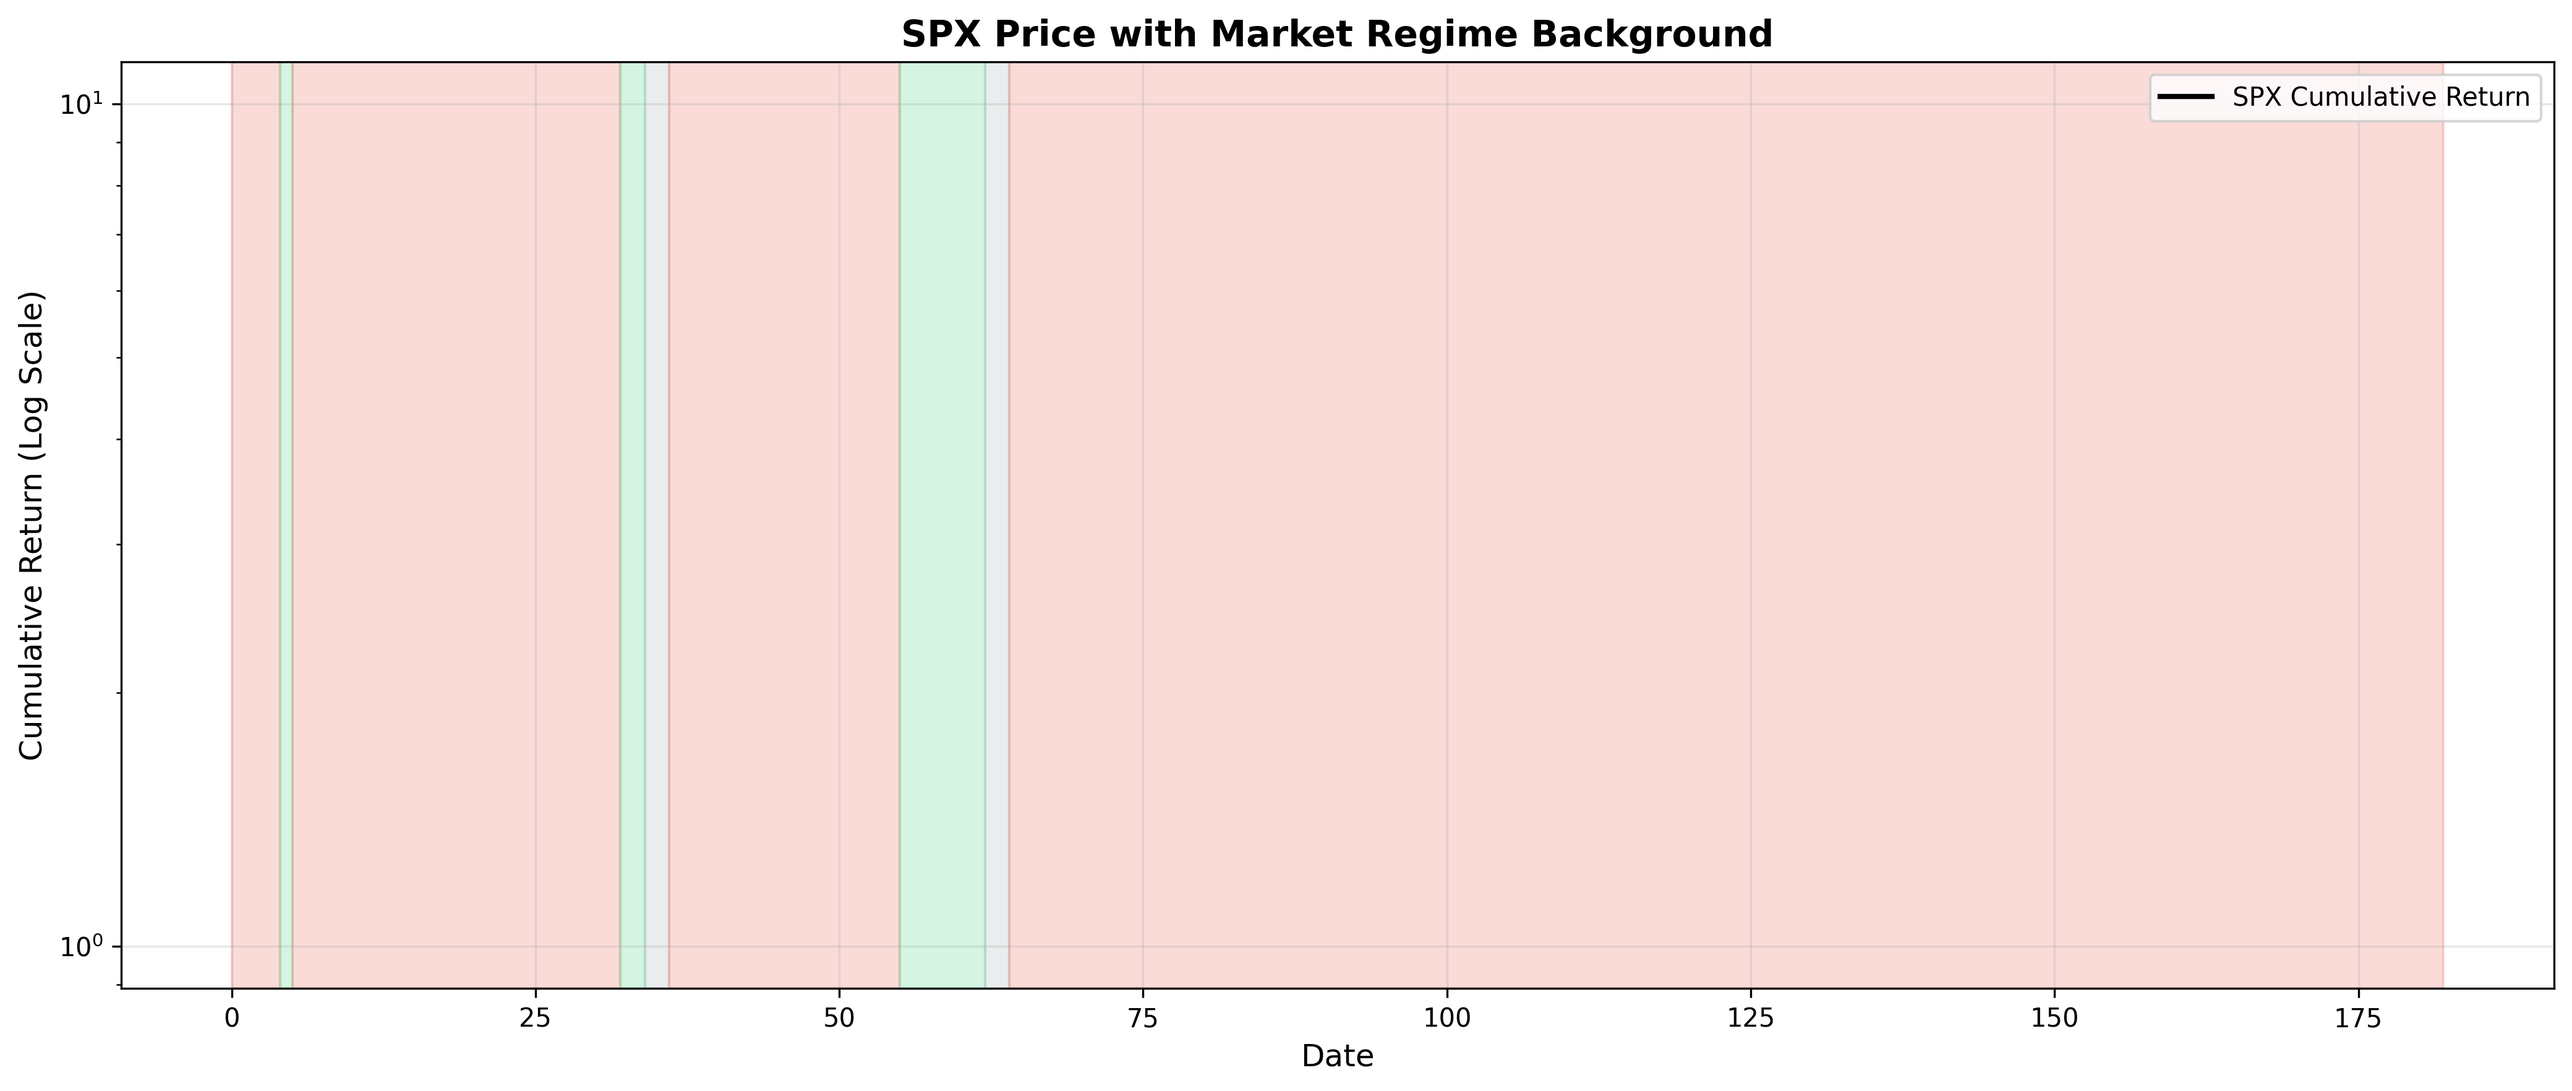
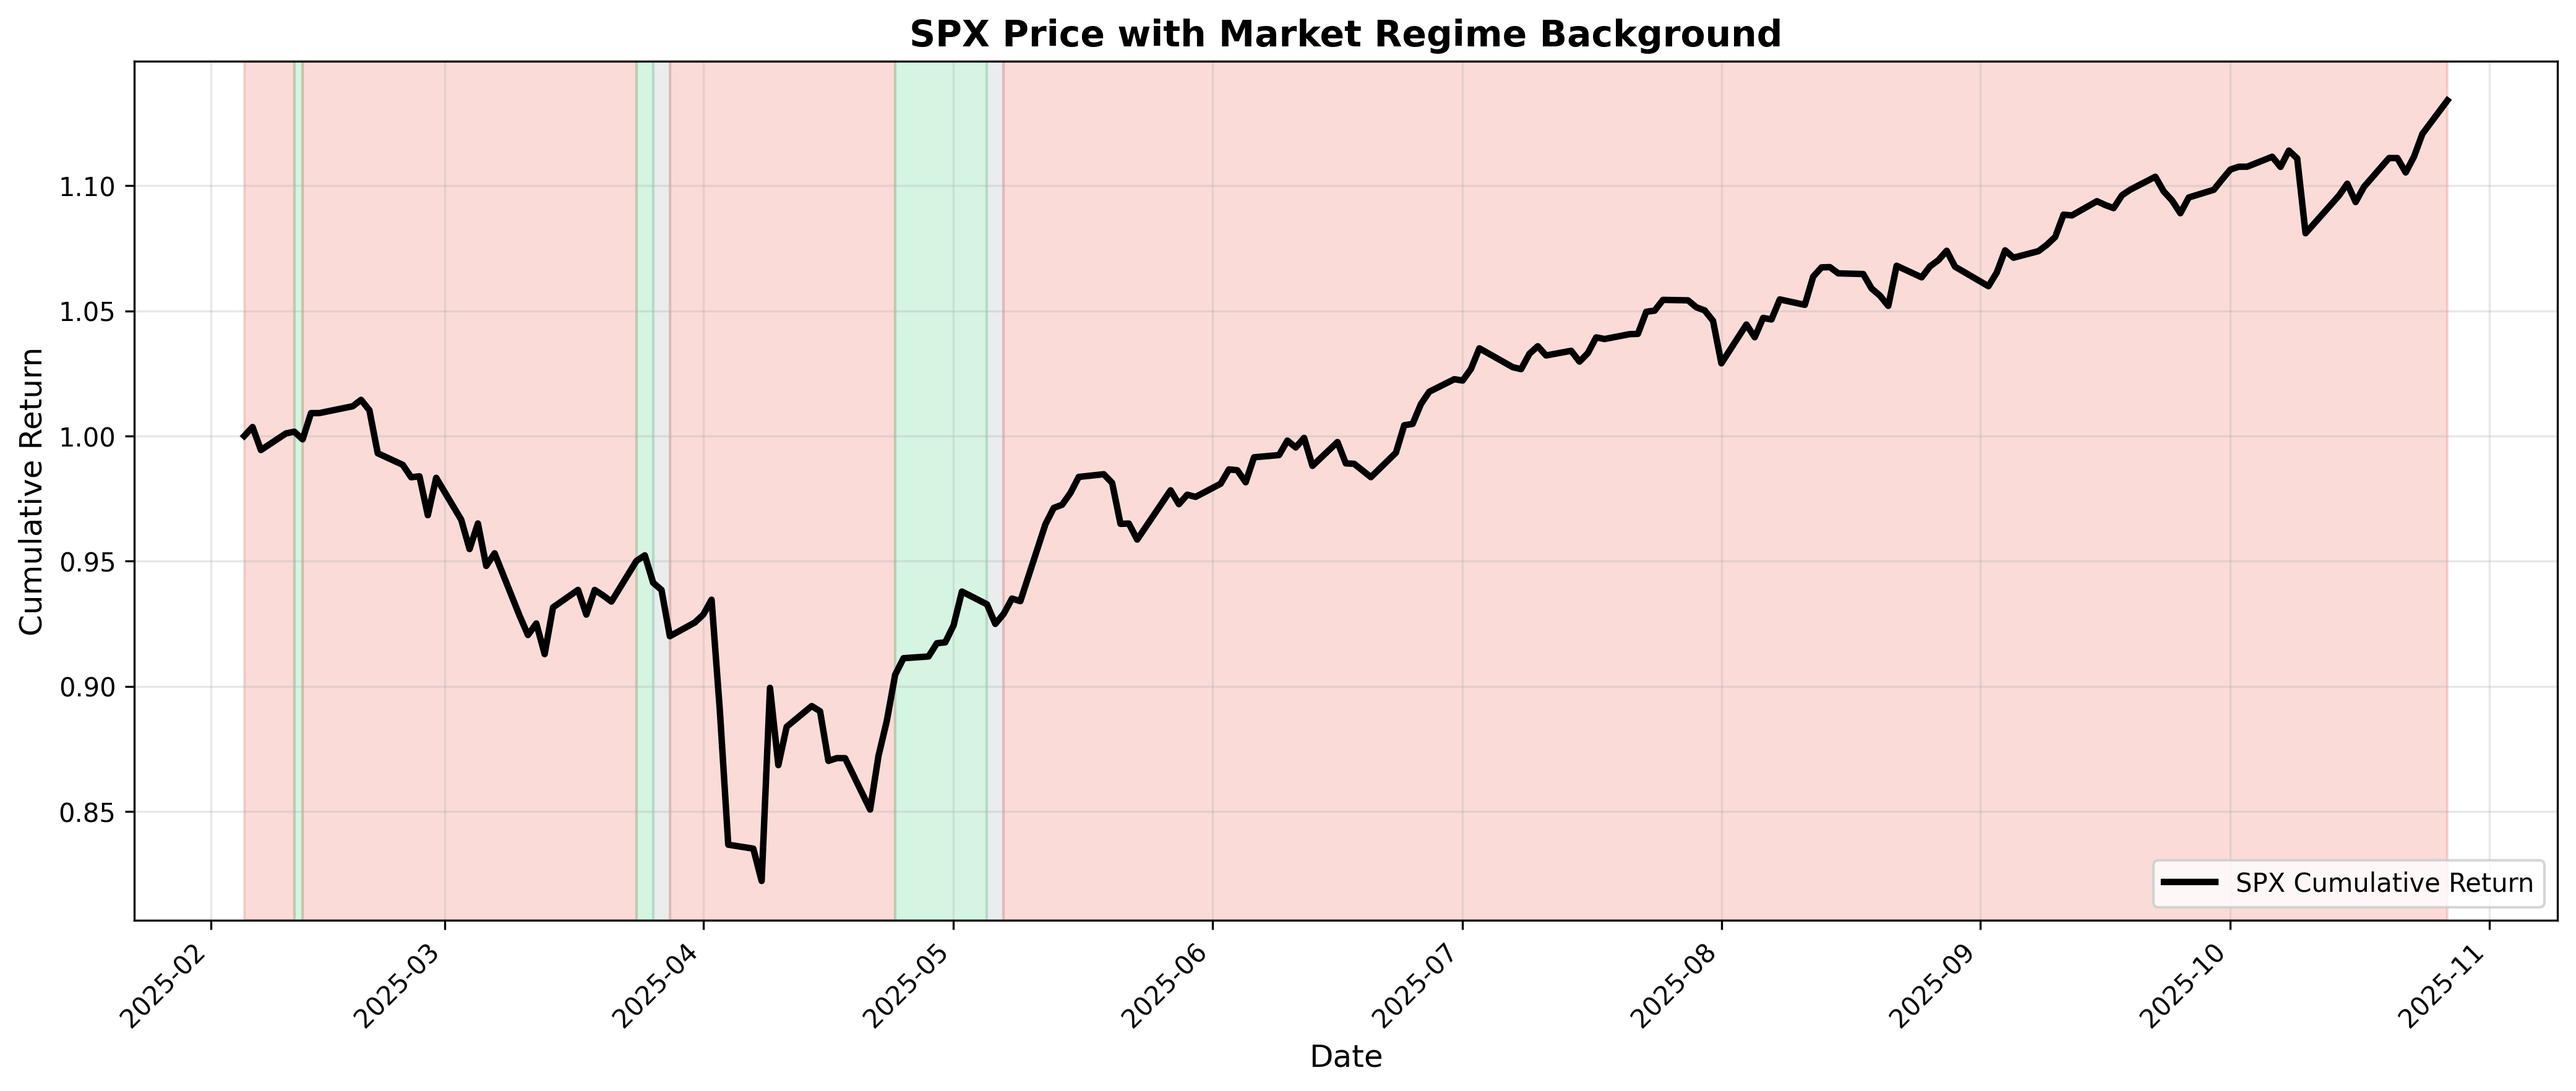
feat: Update acceptance report and preliminary labels with correct date range and add notes on risk-off rule

diff --git a/data/processed/f2_acceptance.md b/data/processed/f2_acceptance.md
@@ -3,14 +3,14 @@
 ## Overview
 This report summarizes the results of regime label generation and sanity checks.
 
-**Generated:** 2025-11-24 16:49:37
+**Generated:** 2025-11-24 17:16:44
 
 ---
 
 ## 1. Dataset Summary
 - **Total Observations:** 183
-- **Date Range:** 1970-01-01 to 1970-01-01
-- **Features Used:** date, spx_close, vix_close, R1, R2, M1, M2, V1, V2, V3_hl10, V3_hl20, S1_hl10, S1_hl20, D1, curve_10y_2y, credit_spread_baa_aaa, X1_corr_42, X1_corr_ewm_hl10, X1_corr_ewm_hl20, X2_beta_42, X2_beta_63, X2_beta_ewm_hl10, X2_beta_ewm_hl20, X3_mom_diff_42, M_LV_MOVE_level, M_CH_MOVE_d14, M_CH_MOVE_d21, spx_close_z, vix_close_z, R1_z, R2_z, M1_z, M2_z, V1_z, V2_z, V3_hl10_z, V3_hl20_z, S1_hl10_z, S1_hl20_z, D1_z, curve_10y_2y_z, credit_spread_baa_aaa_z, X1_corr_42_z, X1_corr_ewm_hl10_z, X1_corr_ewm_hl20_z, X2_beta_42_z, X2_beta_63_z, X2_beta_ewm_hl10_z, X2_beta_ewm_hl20_z, X3_mom_diff_42_z, M_LV_MOVE_level_z, M_CH_MOVE_d14_z, M_CH_MOVE_d21_z
+- **Date Range:** 2025-02-05 to 2025-10-27
+- **Features Used:** spx_close, vix_close, R1, R2, M1, M2, V1, V2, V3_hl10, V3_hl20, S1_hl10, S1_hl20, D1, curve_10y_2y, credit_spread_baa_aaa, X1_corr_42, X1_corr_ewm_hl10, X1_corr_ewm_hl20, X2_beta_42, X2_beta_63, X2_beta_ewm_hl10, X2_beta_ewm_hl20, X3_mom_diff_42, M_LV_MOVE_level, M_CH_MOVE_d14, M_CH_MOVE_d21, spx_close_z, vix_close_z, R1_z, R2_z, M1_z, M2_z, V1_z, V2_z, V3_hl10_z, V3_hl20_z, S1_hl10_z, S1_hl20_z, D1_z, curve_10y_2y_z, credit_spread_baa_aaa_z, X1_corr_42_z, X1_corr_ewm_hl10_z, X1_corr_ewm_hl20_z, X2_beta_42_z, X2_beta_63_z, X2_beta_ewm_hl10_z, X2_beta_ewm_hl20_z, X3_mom_diff_42_z, M_LV_MOVE_level_z, M_CH_MOVE_d14_z, M_CH_MOVE_d21_z
 
 ---
 
@@ -72,6 +72,10 @@ Neutral       4
 - [X] Regime transitions are smooth
 
 ---
+
+## Notes
+- Credit-spread change (`M2`) stays positive on essentially the entire sample, so the current risk-off rule `(M2 > 0)` dominates and keeps June–October 2025 labeled Risk-Off despite the price recovery. We should revisit that threshold/logic before relying on these regimes downstream.
+
 
 **Status:** READY FOR HANDOFF TO P7
 
